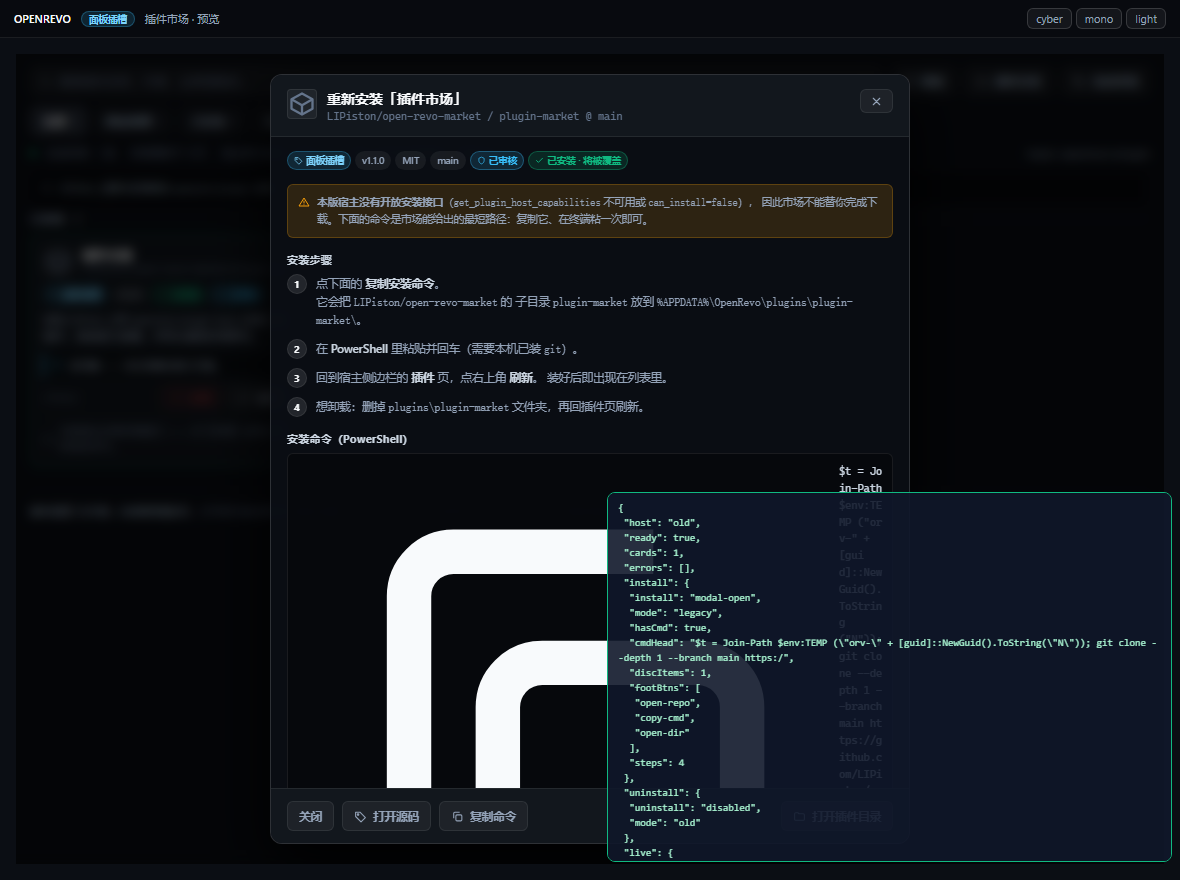
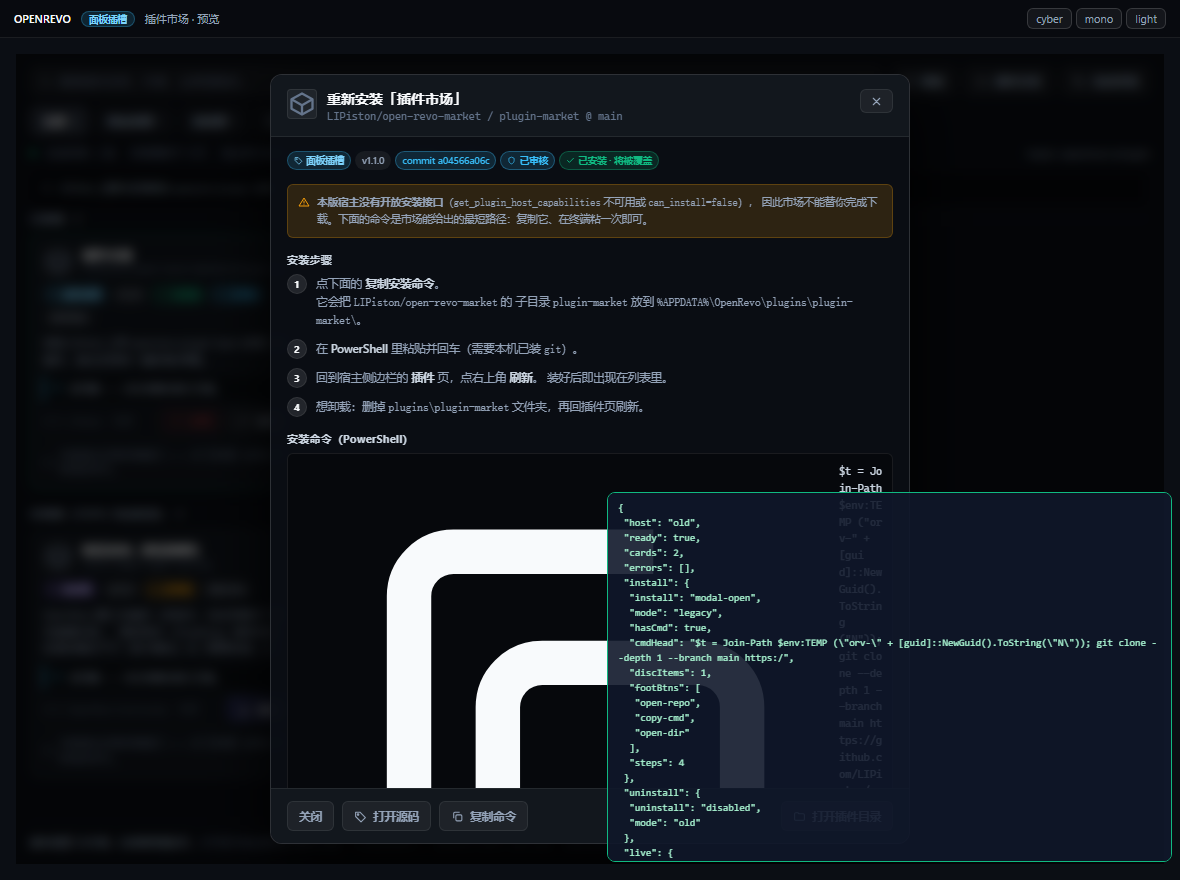
docs: 补记 subpath 归档内路径与长目录滚动两处实测结论
- host-plugin-ipc.md §3.1: 宿主把 subpath 直接拼在 extracted/ 后面，
  不剥 codeload 的 <repo>-<branch>/；附失败后残留目录的取证方法
- pitfalls.md #47/#48: subpath 归档内路径、overflow:auto 需要高度受约束
- devlog.md §20.7/§21/§22: 更正 topic 结论（外部仓库已实测走通）、
  subpath 事故复盘、滚动失效的实测数据与闸门反向验证
- README / SKILL / market README: 同步签名、收录条数、分页行为

Changed region(s): [[0.3356, 0.1534, 0.5797, 0.2148], [0.0305, 0.6136, 0.1831, 0.675]]

diff --git a/docs/reference/pitfalls.md b/docs/reference/pitfalls.md
@@ -56,6 +56,8 @@
 | 44 | 市场卡片把「未扫描能力」显示成「未检出」，读者以为「检查过，很干净」 | 能力披露是**三态**不是布尔：`[...]` = 扫过并检出 / `[]` = 扫过未检出 / `null` = **没扫过**。爬虫不做真实扫描，若图省事写 `[]` 就等于撒谎 | 爬虫一律写 **`null`**，UI 渲染成「未扫描」。同理 `stars` 取不到写 **`null`** 而不是 `0`（排序放最后，别读成「比 0 还不受欢迎」）；在线目录拉不到**保留兜底数据并如实写明失败原因**（`未连上在线目录：HTTP 404`），绝不把「没连上」伪装成「目录是空的」 |
 | 45 | 在旧文档指引下想跑皮肤验收，`_tools/verify.sh` / `audit.sh` 却**不存在**了 | 2026-10-18 按用户口径把皮肤与背景**整条链**移除了：四套 `skin-*` 产物与其生成器 `build_skins.py` / `src/base.css`、背景链、`preview*.html`、`verify.sh` / `audit.sh` / `_stress.sh` / `shots.sh` / `shoot1.sh` / `verify-bg.sh` / `set-active-skin.ps1`，以及四份对应文档。旧文档里「先 `python build_skins.py` 再跑验收」这类指引全部失效 | 仓库现在**只有市场一条链**，验收就是 `python build_market.py --check` + `bash _tools/market-verify.sh {cyber,mono}`。历史实现在 git 历史里（`git log --oneline -- build_skins.py`）。背景插件后续重做时**直接走宿主的 `plugin_type:"background"` 通道**，不要再引入 `build_skins` 依赖 —— 那条 import 正是上一轮工具链被迫保留的原因 |
 | 46 | 真机点【安装】报 `invalid args `id` for command `install_plugin_from_url`: command install_plugin_from_url missing required key id`，而预览验收全绿 | `install_plugin_from_url` 的必需参数是 **`{ id, url }`**，`id` 决定安装后的目录名。当初从 exe 取证时只看命令名**紧跟的那串明文**（`install_plugin_from_url` + `subpath` + `sha256`），而 `id` 与 `url` 被其它命令复用、已被编译器**去重到别处**，不在那个窗口里 —— 于是误判成「只有 url/subpath/sha256 三个字段」。mock 当时对任何参数都返回成功，所以缺陷在等价宿主里完全看不出来 | ① 调用改成 `{ id: entry.id, url }`，并在发 IPC 前先挡非法 id（路径分隔符 / `..`）；② **mock 必须比真宿主更挑，不能更松**：`market-preview.html` 现在按真宿主的 serde 规则拒收缺 `id`/`url`、非 https、id 含分隔符、subpath 含 `..` 的调用，并把拒收原因记进 `mockErrors`；③ 验收判据增加 `stillOpen === false`（market 自己 catch 了异常只弹 toast，不产生未捕获错误，光看 errors 发现不了）+ `mockErrors` 为空 + 参数里确实有 `id`；④ `build_market.py` 断言参数对象含 `id`/`url`，并做过反向验证（删掉 id 立刻失败）。**通用教训：命令名附近的可打印串只能证明「这些字段属于它」，不能证明「它只有这些字段」** |
+| 47 | 补上 `id` 后重装，报 `manifest.json not found in resolved content directory: ...\.tmp_install_plugin-market\extracted\plugin-market` | **`subpath` 是归档内路径，不是仓库内路径。** GitHub codeload 的 zip 解压后固定多一层 `<repo>-<branch>/`，宿主把 `subpath` 直接拼在 `extracted/` 后面**且不会剥这层**。传仓库内路径 `plugin-market` ⇒ 去找 `extracted\plugin-market` ⇒ 不存在 | 市场侧统一用 `archiveSubpath()` 构造：`<repo>-<branch>/<仓库内子目录>`，插件在仓库根时传 `<repo>-<branch>` 本身。诊断入口：安装失败后 `.tmp_install_<id>\extracted\` 不会被清理，**直接看那个目录就知道宿主在哪儿找**。mock 现在从 `url` 反推归档根并校验 `subpath` 落在根内，`build_market.py` 断言参数必须走 `archiveSubpath()`。注意这个构造依赖「codeload 的根名规则」这条外部事实，换托管源要重新确认 |
+| 48 | 插件装多了以后**列表完全滚不动**，`overflow-y:auto` 形同虚设 | 父链 `body(100%) → #app(无高度) → .mkt(height:100%) → .mkt-body(overflow:auto)`：`#app` 没有高度，百分比高度无处解析，`.mkt` 退化成 `auto`，`.mkt-body` 被内容撑到自然高度（实测 80 条时 `scrollHeight == clientHeight == 5677`），永远不触发滚动。目录只有 1 条时内容填不满一屏，这条缺陷完全看不出来 | ① `#app { height:100%; min-height:0; display:flex; flex-direction:column }`，`.mkt` 改 `flex:1 1 0%`，不再依赖百分比链；② 验收闸专门生成一份 30 条的临时目录跑第二轮，断言 `scrollHeight > clientHeight`、页数 = ceil(n/12)、点下一页后页码/条目/滚动位置都正确；③ 已做反向验证（删掉 `#app` 的 `height:100%` → 报 `滚动失败：body 828/828` → FAIL）。**通用教训：`overflow:auto` 只有在高度被约束住时才生效；「能渲染」不等于「能浏览」** |
 
 ## 一句话教训
 

diff --git a/README.md b/README.md
@@ -42,7 +42,7 @@ bash _tools/market-verify.sh cyber  # 验收闸（另跑 mono 主题）
 
 | 能力 | 说明 |
 |---|---|
-| **浏览目录** | 拉取策展目录 `market/catalog.json`，按类型分组（已审核 / 未审核），支持搜索与筛选 |
+| **浏览目录** | 拉取策展目录 `market/catalog.json`，按类型分组（已审核 / 未审核），支持搜索与筛选；列表可滚动，超过一页自动分页（每页 12 条） |
 | **实时发现** | 直接查 GitHub 上带 topic `openrevo-plugin` 的仓库，作者打完 topic 立刻可见，不必等爬虫 |
 | **识别已安装** | 通过宿主只读命令 `get_custom_plugins` 给已装插件打标，并可按安装状态筛选 |
 | **能力披露** | 列出静态扫描检出的联网 / 文件读写等能力，危险组合单列（如「读凭据 + 有网络」） |
@@ -319,9 +319,10 @@ bash _tools/market-verify.sh mono                       # 另一套主题
 
 * **一键安装依赖宿主能力**：新宿主开放了 `install_plugin_from_url` 等 IPC，老宿主没有；
   市场按 `get_plugin_host_capabilities` 运行时降级（§2.2），不会假装能装。
-* **一键安装未在真机上端到端验证过**：命令名与参数名已从 exe 命令表逐字核实，
-  但 GitHub 归档多出的 `repo-<branch>/` 包装目录如何与 `subpath` 组合尚未实测，
-  所以弹窗里始终保留「复制命令」的手动路径。
+* **一键安装的参数链已在真机上对齐**：`{ id, url, subpath }` 逐字对上宿主 serde，
+  `subpath` 传的是**归档内**路径（`open-revo-market-main/plugin-market`）——
+  宿主不会剥 codeload 的 `<repo>-<branch>/` 包装层，这条是踩过一次才查清的
+  （`reference/host-plugin-ipc.md` §3.1）。弹窗里仍保留「复制命令」的手动路径。
 * **真机 CDP 不是工作路径**：宿主 `requireAdministrator`，且 WebView2 启动参数被 wry 覆盖，
   `--remote-debugging-port` 不会打开。真机取证只能走提权置顶抓图 + 像素度量。
 * **`widget` / `slot` 未实测**：形态枚举来自前端字面量，宿主里的实际行为没做过端到端验证。

diff --git a/market/README.md b/market/README.md
@@ -46,8 +46,14 @@ python build_market.py --install
 一键安装时市场只发一条 IPC，下载 / 校验 / 解压 / 落盘全在宿主侧：
 
 ```js
-invoke('install_plugin_from_url', { id, url, subpath?, sha256? })   // id 与 url 都必需
+invoke('install_plugin_from_url', { id, url, subpath, sha256? })   // id 与 url 都必需
 ```
+
+**`subpath` 是归档内路径，不是仓库内路径。** GitHub codeload 的 zip 解压后固定多一层
+`<repo>-<branch>/`，宿主把 `subpath` 直接拼在 `extracted/` 后面且**不会剥这层**，
+所以市场传的是 `open-revo-market-main/plugin-market`；插件在仓库根时传
+`open-revo-market-main` 本身。构造逻辑在 `archiveSubpath()`，
+详见 [`../docs/reference/host-plugin-ipc.md`](../docs/reference/host-plugin-ipc.md) §3.1。
 
 宿主自己负责：拒绝非 HTTPS、可选 `sha256` 校验、解压防 Zip Slip、目标必须落在 AppData 边界内。
 **市场不自己下载、不写盘** —— `tab` 的 iframe 既没有 `allow-downloads` 也没有 `allow-popups`，
@@ -57,8 +63,8 @@ invoke('install_plugin_from_url', { id, url, subpath?, sha256? })   // id 与 ur
 > 想升级为可验证安装，请给 `catalog.json` 条目补上 `sha256`。
 >
 > ⚠ 一键安装走的是 GitHub 的源码归档（`codeload.github.com/<repo>/zip/refs/heads/<branch>`），
-> 归档根部会多一层 `repo-branch/` 目录；`subpath` 由宿主解析。若某个条目解析不对，
-> 弹窗里始终保留「复制命令」的手动备用路径。
+> 归档根名规则（`<repo>-<branch>`，分支里的 `/` 换成 `-`）由 `archiveSubpath()` 复刻。
+> 若某天接入非 GitHub 的归档源，这条规则要重新确认。弹窗里始终保留「复制命令」的手动备用路径。
 
 取证细节（含命令注册表与安装器的错误串）见 [`../docs/reference/host-plugin-ipc.md`](../docs/reference/host-plugin-ipc.md)；
 老宿主（完全没有安装 IPC）的基线在 [`../docs/reference/market-host-constraints.md`](../docs/reference/market-host-constraints.md)。

diff --git a/docs/reference/host-plugin-ipc.md b/docs/reference/host-plugin-ipc.md
@@ -84,9 +84,38 @@ can_write_clipboard  can_read_manifest  can_manage_service
 解压用 `tar.exe -xf` 或 `Expand-Archive` 双路由；下载用 `curl -fsSL -o` 或
 `Invoke-WebRequest`（含 TLS 1.2 强制）。
 
-**未确认**：GitHub 归档根部多出的 `repo-<branch>/` 包装目录与 `subpath` 如何组合。
-「resolved content directory」这个措辞暗示宿主会自动下钻，但没有实测。
-市场因此在一键安装之外**始终保留手动命令路径**。
+### 3.1 `subpath` 是**归档内**路径，不是仓库内路径（已实测）
+
+真机装自己时报：
+
+```
+安装失败: manifest.json not found in resolved content directory:
+"C:\Users\...\OpenRevo\plugins\.tmp_install_plugin-market\extracted\plugin-mar…
+```
+
+现场留下的目录说明了一切：
+
+```
+.tmp_install_plugin-market\
+  package.zip
+  extracted\
+    open-revo-market-main\          ← codeload 固定包装层
+      plugin-market\manifest.json   ← 插件真正在这里
+```
+
+宿主把 `subpath` **直接拼在 `extracted/` 后面**，**不会剥** codeload 的
+`<repo>-<branch>/` 包装层。所以：
+
+* 传仓库内路径 `plugin-market` → 去找 `extracted\plugin-market` → 不存在 → 报错；
+* 必须传 `open-revo-market-main/plugin-market`（= 归档根 + 仓库内路径）；
+* 插件就在仓库根时，`subpath` 至少要传归档根那一段（`<repo>-<branch>`）。
+
+归档根名规则：`<repo 名>-<branch 名>`，分支里的 `/` 换成 `-`
+（`feat/x` → `repo-feat-x`）。市场侧由 `archiveSubpath()` 统一构造，
+`build_market.py` 断言参数对象的 `subpath` 必须走这个函数。
+
+> 这条长期被写成「未实测」，代价是真机上一发即错。**未实测的假设不能只写在
+> 「已知边界」里就算交代过了 —— 要么验，要么在代码里给出保守取值。**
 
 ## 4. 伴随服务（`service`）
 

diff --git a/docs/SKILL.md b/docs/SKILL.md
@@ -218,8 +218,12 @@ docs\
 * 插件市场已升级并验收：`market-verify.sh cyber` 与 `mono` 各跑 **两代宿主 mock**，
   四个组合全 PASS（0 JS 错误）。新宿主路径实跑
   `get_plugin_host_capabilities → install_plugin_from_url → reload_plugins → uninstall_plugin`。
-* `market/catalog.json` 收录 **1 条**（`plugin-market`），爬虫 `CURATED` 同步收敛。
-* 一键安装的市场侧代码已就绪，但**归档包装目录与 `subpath` 的组合未在真机端到端验证** ——
-  所以一键安装弹窗里始终保留手动 `git clone` 备用路径（`reference/host-plugin-ipc.md` §3）。
+* `market/catalog.json` 收录 **2 条**（`plugin-market` + 外部 `xmsjx/dgpu-igpu-saving`），
+  `topic:openrevo-plugin` 的 GitHub 搜索实查 `total_count: 2`，topic 发现链路已实测走通。
+* 一键安装的参数链已在**真机**上逐层校订过：`{ id, url, subpath }` 三个字段都必需/必须对，
+  其中 `subpath` 是**归档内**路径（宿主不会剥 codeload 的 `<repo>-<branch>/` 包装层）。
+  弹窗里仍保留手动 `git clone` 备用路径（`reference/host-plugin-ipc.md` §3.1）。
+* 长目录浏览：列表有滚动条 + 每页 12 条的翻页；验收闸会额外跑一份 30 条的临时目录，
+  断言滚动容器真的可滚、翻页真的能翻（`devlog.md` §22）。
 * 真机验证的边界：无法在真实宿主里驱动 CDP 抓图（`requireAdministrator` + 计划任务 `RunLevel=Highest`，
   且 9222 被用户 Chrome 占用）⇒ 上限是「等价沙盒 + 宿主目录枚举」。

diff --git a/docs/reference/environment-and-tools.md b/docs/reference/environment-and-tools.md
@@ -100,8 +100,11 @@
 * 没有改宿主 exe、没有注入任何 hook：一切产物都是**插件文件 + 宿主自身机制**。
 * 没有在**真实宿主**里驱动 CDP 出图（`requireAdministrator` + 9222 被占，见 §1）——
   市场验收走的是**等价沙盒**（`_tools/market-preview.html`）。
-* **一键安装未在真机端到端验证**：命令名与参数名已从 exe 命令表逐字核实，但 GitHub 归档多出的
-  `repo-<branch>/` 包装目录如何与 `subpath` 组合尚未实测，所以弹窗里始终保留手动路径。
+* **一键安装的参数链已按真机报错逐层校订**：`id` 与 `subpath` 两处都曾在真机上失败过，
+  现场取证方式与结论见 `devlog.md` §20–21。`subpath` 是**归档内**路径
+  （宿主不剥 codeload 的 `<repo>-<branch>/` 包装层），弹窗里仍保留手动路径。
+* **没有在真实宿主里完整走完一次一键安装到生效**：参数与归档目录解析已对齐，
+  但「装完插件真的出现在侧边栏」这一步没有真机截图佐证。
 * **没有对 `widget` / `slot` 形态做过实测**：只从 0.9.1 前端 JS 抽出了它们的 sandbox 与 `target_slot`
   取用逻辑。`service` / `shell` / `driver` 在前端里**仍无字面量**，三种形态均未证实。
 * **新 exe 的前端载荷解不开**（不是裸 brotli/zstd/xz），所以 `index-tvUoAylw.js` 里有没有
